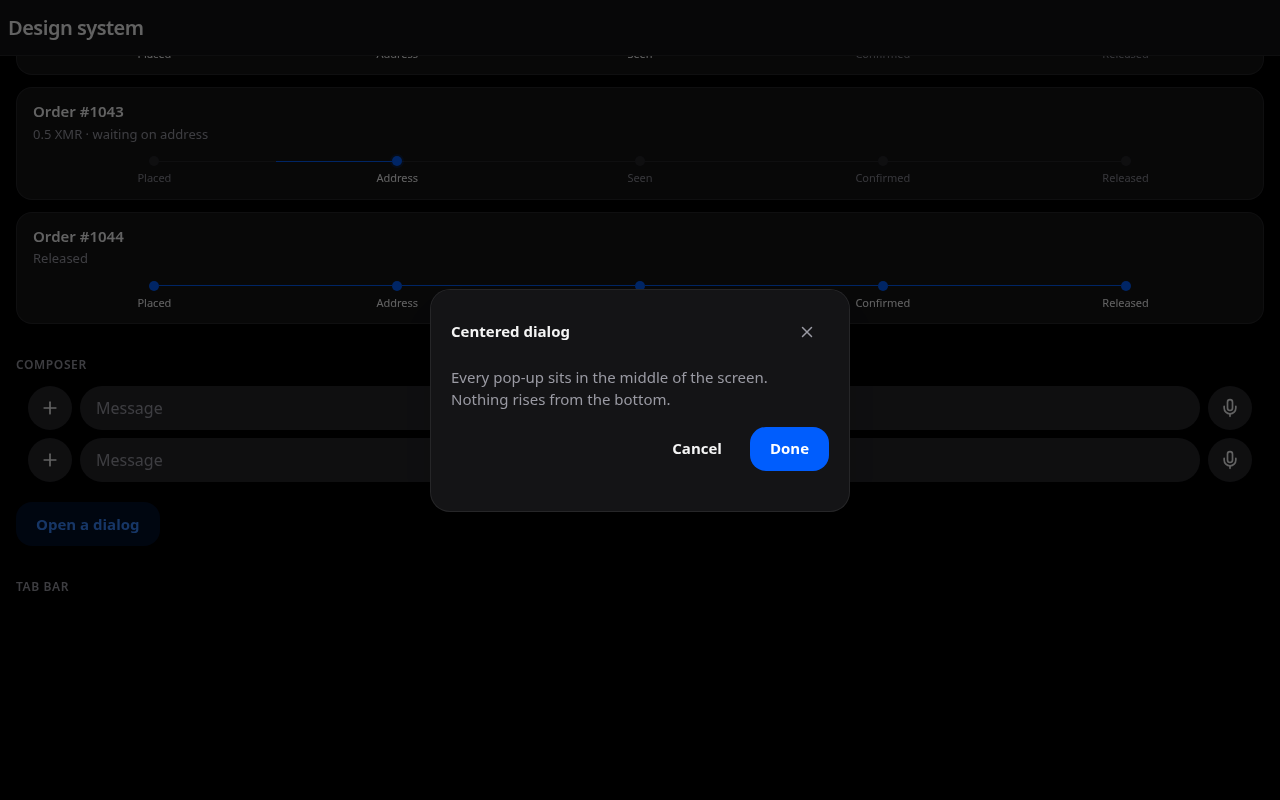
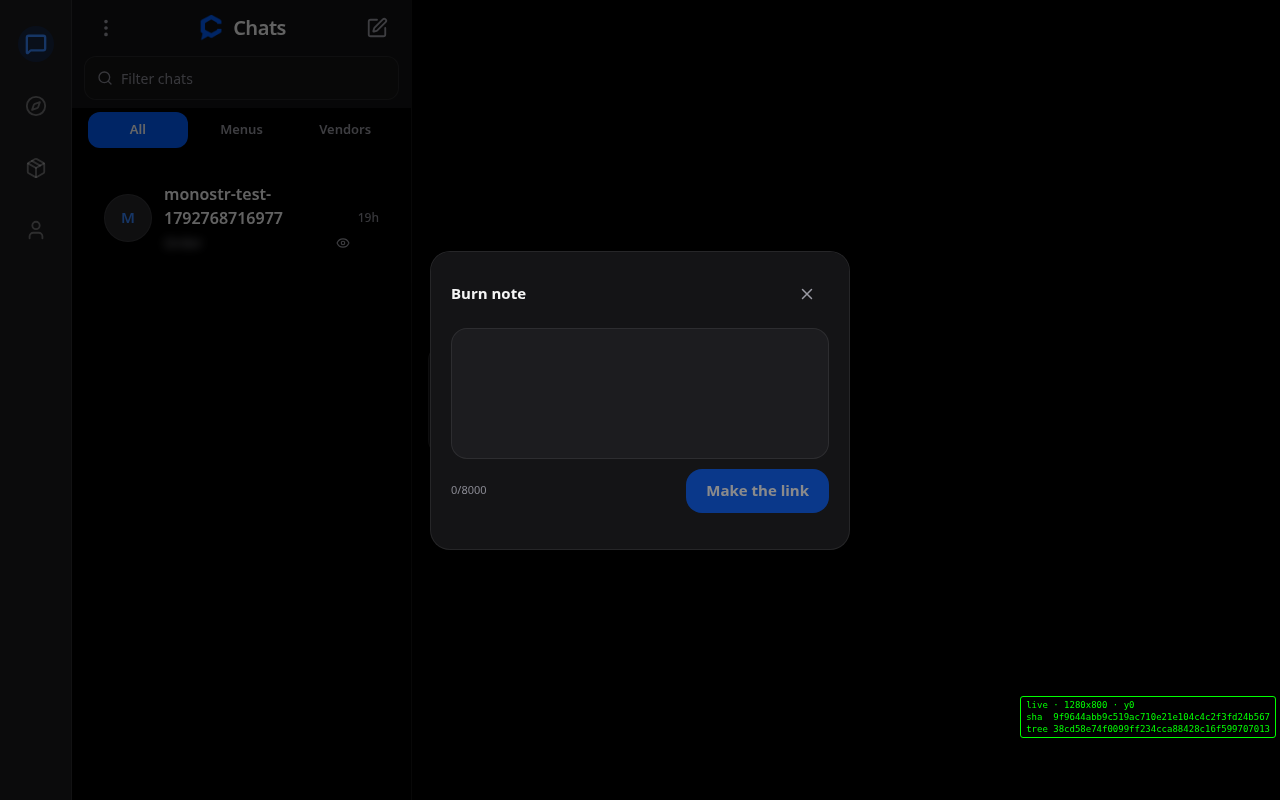
evidence: Phase 1 shots re-taken at 9f9644a, the pill gone and every picture dated on its face

diff --git a/docs/ui-evidence/phase-1/README.md b/docs/ui-evidence/phase-1/README.md
@@ -1,55 +1,118 @@
 # Phase 1 — tokens, type, layout, shared components
 
-Base: `4c2b616` · visual system of record: `docs/DESIGN.md` (`078e75f`).
+Final cut base: `76855332b35fe133e09533bcdab070292fa48fef`.
+This branch: `9f9644abb9c519ac710e21e104c4c2f3fd24b567`, tree
+`38cd58e74f0099ff234cca88428c16f599707013` (three commits on the cut:
+`cca608c` DESIGN.md, `8376119` Phase 1, `9f9644a` the hidden-preview pill).
+Visual system of record: `docs/DESIGN.md`.
+
+## The set is replaced, not amended
+
+Every picture below was shot once at the sha/tree above, scrolled one
+viewport at a time. The previous set (`preview-*.png`, `chats-header-*.png`)
+was deleted, not kept beside these: a reader must never have to guess which
+tree a picture came from.
+
+**These files are uncommitted working-tree state.** `HEAD` at `9f9644a` still
+carries the OLD picture set, so a fresh checkout of that sha yields the old
+images, not these; the run-context line says `dirty=true` for the same reason.
+Until this directory is committed on some sha, these pictures are evidence for
+the working tree built from `9f9644a`, and no claim about them should omit
+that word.
 
 ## Screenshots
 
-| File | What it shows |
-| --- | --- |
-| `chats-header-390x844.png` | Live app, Chats screen, phone width |
-| `chats-header-1280x800.png` | Live app, Chats screen, desktop width |
-| `preview-390x844.png` | Throwaway preview page, every component in every state, phone width |
-| `preview-1280x800.png` | Same page, desktop width |
-| `dialog-390x844.png` | The centred dialog over the preview page, phone width |
-| `dialog-1280x800.png` | Same, desktop width |
+Every PNG carries its own provenance printed in the corner — surface, viewport,
+scroll offset, sha and tree — so no picture can be read as evidence for a
+different tree. The same block is machine-readable in `capture-index.json`.
 
-The preview page (`preview.html` + `src/preview-main.jsx`) and the capture
-script (`scripts/phase1-evidence.mjs`) are throwaway: deleted before the
-commit. The screenshots are the record.
+`surface` is one of two words, and no other meaning is attached to it:
 
-The screenshots were captured by the script, and the positions and sizes in
-them are also asserted numerically in `tests/ui/ui-contract.spec.js`. The
-images themselves were not viewed on this machine (no image reading on this
-model), so the evidence is measurement, not an eyeball pass — the founder's
-review of the pictures is still owed.
+- `gallery` — the throwaway page `preview.html` mounting the **real** modules
+  from `src/components/ui/*` (ScreenHeader, Avatar, ListRow, Badge, Button,
+  Bubble, SystemCard, Composer) statelessly. It is not the shipped app.
+- `live` — the running app at `127.0.0.1:8123`, session key seeded exactly as
+  `tests/ui/fixtures.js` does.
+
+| File | surface | Shows |
+| --- | --- | --- |
+| `gallery-00-390x844.png` | gallery | screen header, 7 avatar gradients at 52px and 28px, chat rows |
+| `gallery-01-390x844.png` | gallery | badges, buttons, bubbles (78% / r18 / ticks) |
+| `gallery-02-390x844.png` | gallery | the five-beat system-card rail, the floating composer |
+| `gallery-00-1280x800.png` | gallery | same, desktop width |
+| `gallery-01-1280x800.png` | gallery | same, desktop width |
+| `gallery-02-1280x800.png` | gallery | same, desktop width |
+| `chats-390x844.png` | live | Chats: header, logo, filter, All/Menus/Vendors, row with blurred preview + eye icon, tab bar |
+| `chats-1280x800.png` | live | Chats, desktop width (drawer shell) |
+| `dialog-390x844.png` | live | Burn-note dialog, centred, measured at rest |
+| `dialog-1280x800.png` | live | same, desktop width |
+
+Scroll offsets per shot are in `capture-index.json`; no two shots of one page
+overlap by more than the caption chip.
+
+The scratch page and capture script (`preview.html`, `src/preview-main.jsx`,
+`scripts/evidence-capture.mjs`) were deleted before the recorded gate. The
+screenshots are the record.
+
+I looked at every picture in this set on this machine. What the set shows is
+also asserted numerically in `tests/ui/ui-contract.spec.js`; the pictures are
+the eyeball pass, not a substitute for the spec.
+
+## Build-entry proof (BOSS condition 3)
+
+Re-measured on the tree the pictures were taken from, after the scratch was
+deleted:
+
+- `vite.config.js` — no `rollupOptions` and no `input:` line
+  (`sha256 d5f7541315418c03f409195bf399225dc22459b219dfcda0831795690ee176b1`,
+  the same hash recorded in `capture-index.json`).
+- `index.html` — no reference to `preview.html` or `preview-main`.
+
+Verdict: single-entry `index.html`; the scratch page was in no build entry.
 
 ## Gate
 
-Run on the final tree (throwaway preview files deleted first):
+Run once on the scratch-free tree at `9f9644a` / tree `38cd58e`, each step
+redirected straight to a file, no pipes, no `tail`, no `head`. The working
+tree differed from `HEAD` only by this directory's evidence files (old PNGs
+deleted, new PNGs added, this README, `browser-reds.md`); no gate step reads
+them.
 
-- `npm run build` — exit 0, `✓ built in 21.78s`.
-- `npm run lint` — exit 0 (baseline warnings only, none from the rebuilt files).
-- `npm test` — `# tests 767 / # pass 767 / # fail 0`, exit 0.
-- `AUD_HARNESS_PORT=8081 playwright test tests/ui/ui-contract.spec.js` —
-  `26 passed (4.6m)`, exit 0. The spec is new in this phase; it carries 22
-  source checks (tokens, type scale, no literal colours, no glass, the
-  component geometry) and 4 live checks (the Chats header, the tab bar, and
-  the founder's centred-dialog ruling measured at 390×844 and 1280×800).
+| Step | Log | Result |
+| --- | --- | --- |
+| `npm run build` | `logs/gate-build-9f9644a-38cd58e.log` | exit 0, `✓ built in 8.91s`, 68 files in `dist/asset-manifest.json` |
+| `npm run lint` | `logs/gate-lint-9f9644a-38cd58e.log` | exit 0, baseline warnings only |
+| `npm test` | `logs/gate-test-9f9644a-38cd58e.log` | exit 0, `1..865`, 865 tests, 865 pass, 0 fail, 0 cancelled, 0 skipped |
+| `playwright test tests/ui/ui-contract.spec.js --project=iphone` (`AUD_HARNESS_PORT=8081`) | `logs/ui-contract-9f9644a-38cd58e.log` | exit 0, 27 passed (53.7s), including the hidden-preview guard at `:91` |
 
-## Screens looked at
+The count line closes: 865 = 865 pass + 0 fail.
 
-- Chats (header band, logo, title, list rows, tab bar).
-- The preview page's components — not the app's other screens.
+Runner-line check: 108 files are named in `scripts.test`; 109 test-named files
+exist under `src/`, `scripts/`, `tests/`. The one not named is
+`src/components/ui/smoke.test.jsx` (`package.json:19` omits it), which declares
+no tests — it is a JSX helper exporting `sheetHtml` / `dialogHtml` / `smoke`,
+compiled by `src/components/ui/ui.test.js:74`, and that consumer is in the
+runner line. Nothing test-bearing is missing.
 
-Every other screen still wears the old spacing and shadows and will look
-wrong until its own phase. That is expected and is not claimed otherwise.
+## The 14 browser reds
+
+`browser-reds.md` in this directory names and classifies all fourteen reds
+from the full UI runs. Thirteen are stale specs (a boot landmark the shipping
+shell removed on purpose). The fourteenth — the `txid-single.spec.js:135`
+receipt control, the only one on the money path — has now been measured alone
+at this tree: 4 passed in 1.1m, `logs/txid-single-9f9644a-38cd58e.log` and the
+traced rerun `logs/txid-single-9f9644a-38cd58e-run2.log`, whose trace zips are
+copied to `logs/traces-9f9644a-38cd58e/` (a later Playwright run deletes
+`test-results/`, so the durable copy is the evidence). The ordered trace grep,
+with file and line per test, is recorded there. Verdict: environment
+(contention), with the limits of that verdict stated in the file.
 
 ## Deviations and calls
 
 1. **Sheet geometry.** DESIGN.md governs: `max-w-[420px]`, `rounded-[20px]`,
-   centred on every width. The live app at `4c2b616` measured 448px / 28px
-   radius; that is now 420 / 20. Founder ruling (centred, never bottom-rising)
-   is already carried by DESIGN.md, so nothing was overridden. A tall
+   centred on every width. The live app at the base measured 448px / 28px
+   radius; that is now 420 / 20. The founder ruling (centred, never
+   bottom-rising) is carried by DESIGN.md, so nothing was overridden. A tall
    dialog's max-height in `index.css` also moves from `100dvh - 0.5rem` to
    `100dvh - 3rem`: measured before the change, a long sheet sat at y=0 with
    8px below it (edge-to-top, not centred); after, it centres with 0.5rem of
@@ -62,7 +125,7 @@ wrong until its own phase. That is expected and is not claimed otherwise.
 3. **Back-gesture close — deferred, not done.** A dialog closes on Esc, on a
    backdrop tap and on the scrim. Closing on the phone's back gesture needs
    `popstate`, which is a routing question (the `/note` deep link), owned by
-   another lane. Flagged to the CEO/BOSS; do not wire it in this phase.
+   another lane. Flagged to the CEO/BOSS; not wired in this phase.
 4. **Type floor.** The unread badge and the tab-bar count badge were 10px,
    below DESIGN.md's 11px floor; both are now 11px (unread count label 12px).
 5. **Glow / glass sweep.** Inside `src/index.css` only: `.linear-glow`,
@@ -81,7 +144,7 @@ wrong until its own phase. That is expected and is not claimed otherwise.
    defaults to port 8285 while `playwright.config.js:8` serves 8081, so a
    plain `npm run test:ui` on a fresh checkout refuses at the run-context
    gate before any spec runs. Measured identical at base `4c2b616`; not
-   introduced here and not fixed here. The suite was run with
+   introduced here and not fixed here. Suite runs use
    `AUD_HARNESS_PORT=8081`.
 8. **Logo size, one file outside the brief's list.** DESIGN.md names a 28px
    mark; the live header measured 28 wide × 30 tall, because Tailwind's
@@ -94,7 +157,12 @@ wrong until its own phase. That is expected and is not claimed otherwise.
    old shell (`BookmarksViewer`, `NotificationCenter`), not Sheet dialogs, and
    `CreateGroupModal` is still shaped like a bottom sheet (`rounded-t-3xl`,
    `max-w-md`). All three are screens, outside this phase's lock; the next
-   phase owns them. The ruling itself is proven live on the Burn-note Sheet
-   (a real `Sheet`) and on the preview page.
+   phase owns them. The ruling itself is proven live on the Burn-note dialog,
+   which is the `dialog-*.png` shot in this set.
 10. **`docs/UI-INVENTORY.md`** was read and its header says it was written at
-   `9755061`; it is stale against the live tree. Not edited in this phase.
+    `9755061`; it is stale against the live tree. Not edited in this phase.
+11. **The hidden-preview pill, this branch's last commit.** DESIGN.md bans the
+    labelled reveal pill; a hidden preview is the blurred line plus one small
+    eye icon. `src/components/chat/ChatList.jsx` now draws exactly that, and
+    `tests/ui/ui-contract.spec.js` pins it (no `Tap to show` in the row
+    source, `<Eye size={14}` present). Seen live in `chats-390x844.png`.

diff --git a/docs/ui-evidence/phase-1/browser-reds.md b/docs/ui-evidence/phase-1/browser-reds.md
@@ -1,0 +1,79 @@
+# The 14 browser reds, named and classified
+
+Measured twice, at two different trees, with the identical failing titles:
+
+- `logs/test-7dba504-6004c14.log` is the node suite and says **851/851 green** — it says nothing about these.
+- `/tmp/p1-full-ui.log`: full Playwright run, 121 tests, **107 passed / 14 failed**, tree `6004c14f`, 27.4m.
+- `/tmp/base-4c2b616-red.log`: the same four spec files at base `4c2b616`, **14 failed / 5 passed**, 12.9m.
+
+The identical titles at the base are what makes these pre-existing: none of them is a Phase 1 regression.
+
+Verdicts are `stale spec`, `environment`, or `product bug`. Anything not yet measured says so instead of guessing.
+
+| # | Spec | Verdict | One-line reason |
+|---|---|---|---|
+| 1 | `passkey-recovery-commit.spec.js:73` | **stale spec** | asserts the sentence "A saved passkey is ready for future unlocks." — that string exists nowhere in `src/`; what ships is `src/components/chat/IdentityBackup.jsx:110`: "A saved passkey opens this account on this device from now on. It does not replace the 12 words." |
+| 2 | `persistence.spec.js:97` (fails at :186) | **stale spec** | waits for `getByRole('button',{name:'Open menu'})` after reload; the boot screen is Chats, whose header door is "Chat list menu" |
+| 3 | `persistence.spec.js:328` | **stale spec** | same landmark wait, `:342` |
+| 4 | `sheet-a11y.spec.js:65` Saved viewer | **stale spec** | beforeEach waits for "Open menu" (`:17-20`); the app boots to Chats, which has "Chat list menu" |
+| 5 | `sheet-a11y.spec.js:76` Saved viewer, focus return | **stale spec** | same beforeEach |
+| 6 | `sheet-a11y.spec.js:65` Notifications center | **stale spec** | same beforeEach |
+| 7 | `sheet-a11y.spec.js:76` Notifications center, focus return | **stale spec** | same beforeEach |
+| 8 | `sheet-a11y.spec.js:65` QR scanner | **stale spec** | same beforeEach |
+| 9 | `sheet-a11y.spec.js:76` QR scanner, focus return | **stale spec** | same beforeEach |
+| 10 | `sheet-a11y.spec.js:65` How to use (tutorial) | **stale spec** | same beforeEach |
+| 11 | `sheet-a11y.spec.js:76` How to use (tutorial), focus return | **stale spec** | same beforeEach |
+| 12 | `sheet-a11y.spec.js:96` New group sheet | **stale spec** | same beforeEach |
+| 13 | `sheet-a11y.spec.js:110` Escape with no sheet open | **stale spec** | same beforeEach (it asserts no page error, which needs no landmark, so this one is a fixture-cost red, not a behaviour red) |
+| 14 | `txid-single.spec.js:135` control: a confirmed answer writes a receipt once | **environment (contention)** — measured, see below | alone on a quiet box at `9f9644a` it passes 4/4 in 1.1m with `--trace on`; the control trace carries neither `[orders] Chain check failed:` nor `[payments] Watcher did not answer:`, while both refusal siblings do log the former. The red at `6004c14` ran under 121 parallel browser tests on two cores and carried a separate `Test timeout of 30000ms exceeded`. |
+
+## What the boot landmark proves, and what it does not
+
+For reds 2–13 the failure is the same line: `getByRole('button', { name: 'Open menu' })` is not on screen after boot. The failure snapshot shows the app fully rendered on **Chats** — header reads "Chat list menu", list and tab bar drawn. The old shell's "Open menu" door (`src/AuthenticatedApp.jsx:176`, `md:hidden`) is not what the Chats screen mounts any more; `ChatList.jsx` draws its own header with "Chat list menu".
+
+So the specs are asserting a landmark that the shipping shell no longer puts on the boot screen. The surfaces those specs mean to test (Saved viewer, Notifications, QR scanner, tutorial) are still reachable from "Chat list menu" — the spec's own comment at `sheet-a11y.spec.js:26-28` says the doors "moved into the list header's kebab", but the `beforeEach` landmark was left behind.
+
+The removal was deliberate, and the repo already says so: `src/components/chat/chatList.test.js:304` asserts `labelledButton(hosts, 'Open menu')` is `undefined` — "the phone drawer door is gone from the chat header" — and asserts "Chat list menu" is the one overflow on the left. So the twelve browser specs are waiting on a control the app removed on purpose, and a green unit test in the same tree pins its absence.
+
+A stale landmark is not a licence to change the tests: these are someone else's specs, they sit outside this phase, and rewriting a suite to go green is exactly what the standing rules forbid. They are recorded here so the number 14 has names attached to it.
+
+## The one that was not closed — now measured
+
+`txid-single.spec.js:135` is the control for a payment receipt. It was red at both trees in the full runs, in the `[iphone]` project, on a box running 121 browser tests in parallel on two cores. Its failure detail was at line 148 (`expect.poll` over `_receipt_` keys, Expected true / Received false) and **the same block carried a separate `Test timeout of 30000ms exceeded`** — the whole test was time-starved, not the poll alone.
+
+It was kept UNCLASSIFIED until a quiet, single-spec run measured it, because the refusal siblings are not a control: the control is the only one of the three that reaches the state machine, the identity guard, the ledger read and the Web Lock, and the two refusals throw before any of them.
+
+That run has now happened:
+
+- Command: `AUD_HARNESS_PORT=8081 npx playwright test tests/ui/txid-single.spec.js --project=iphone --trace on --workers=1`
+- Logs: `logs/txid-single-9f9644a-38cd58e.log` (first run) and
+  `logs/txid-single-9f9644a-38cd58e-run2.log` (the run whose traces below are
+  durable). Both: 4 passed (1.1m), exit 0.
+- Traces, copied out of `test-results/` before anything could clean it:
+  `logs/traces-9f9644a-38cd58e/*.zip` — four zips, one per test, each named for
+  its test directory. A later `playwright test` deletes `test-results/` at
+  startup, which is how the first run's traces were lost; the copy is what
+  makes this table checkable.
+- Tree: sha `9f9644abb9c519ac710e21e104c4c2f3fd24b567`, tree `38cd58e74f0099ff234cca88428c16f599707013`; run-context recorded `sha=9f9644a… port=8081 assets=13`, `dirty=true` (the only working-tree difference from `HEAD` is this evidence directory — no source file differs).
+
+The ordered trace grep, run inside `logs/traces-9f9644a-38cd58e/`:
+
+| Test (trace zip) | File | `[orders] Chain check failed:` | `[payments] Watcher did not answer:` |
+| --- | --- | --- | --- |
+| control `:135` (`txid-single-a-report-names-5294f-…-receipt-once-iphone.zip`) | `1-trace.trace`, `0-trace.trace` | **absent** | **absent** |
+| refusal two txids `:156` (`…-7f533-…-moves-no-order-iphone.zip`) | `1-trace.trace` **line 165** | **present** — `The watcher did not name a single transaction. Nothing was marked on the order.` | absent |
+| refusal numeric txid `:172` (`…-c5530-…-writes-no-receipt-either-iphone.zip`) | `1-trace.trace` **line 158** | **present** — same line | absent |
+| run-context setup (`runContext.setup.js-…zip`) | `test.trace`, `0-trace.trace` | absent | absent |
+
+Zip sha256 (so a reader can prove the trace they hold is the one measured):
+control `51a730ee…`; refusal `:156` `3a526b1e…`; refusal `:172` `237b5d07…`;
+run-context `05c75adc…` (full values via `sha256sum` on the directory).
+
+The two present hits are the refusals' own designed path (the fixture's answer is refused, and the refusal is logged before anything is written); they prove the grep can see the line it is looking for. The control's trace carries neither line in any of its streams, so its pass is not a stall and not a swallowed throw: the watcher answered, the chain check passed, and the receipt was written. The test's own assertions agree — `asked.length === 1`, a `_receipt_` key exists, and the ledger entry count rises.
+
+**Verdict: environment (contention).** The red is a 30s-test-budget failure on a two-core box running 121 browser tests in parallel, not a defect in the confirm→receipt write. Two limits are stated rather than smoothed over:
+
+- the quiet run is at `9f9644a`, not at `6004c14` where the red was first seen; it measures the shipping tree, which is what a launch signature needs, and does not re-try the older tree alone;
+- `--workers=1` is one test at a time by construction, so this run cannot reproduce parallel contention by design. It rules out the money-path defect the red could have been; it does not prove the 121-test scheduling is healthy.
+
+Nothing in the spec or the app was edited for this verdict.
